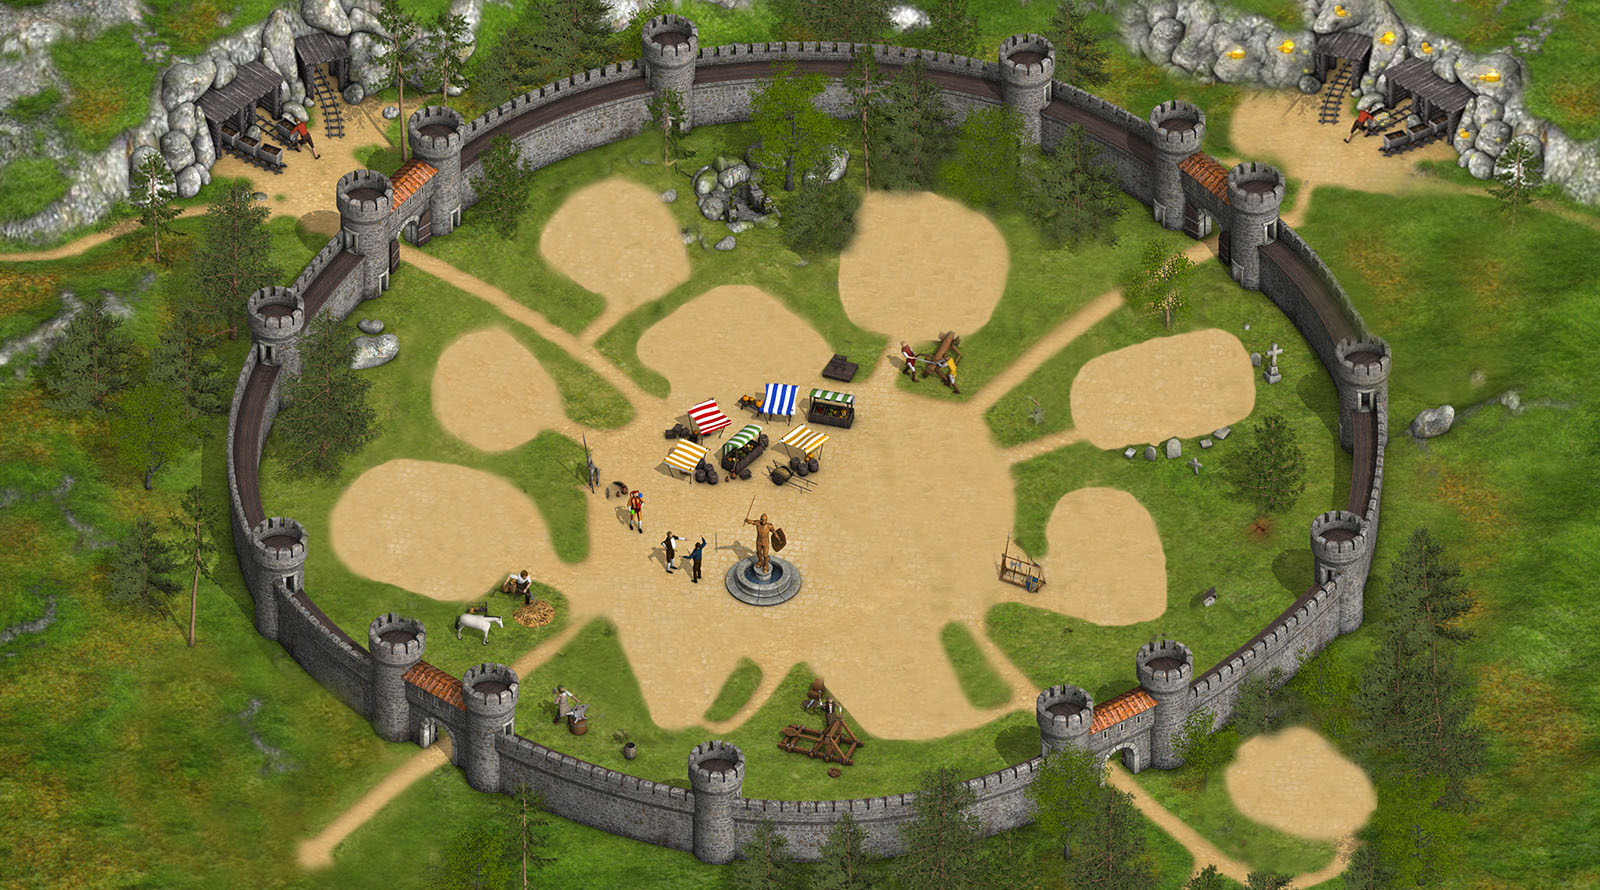
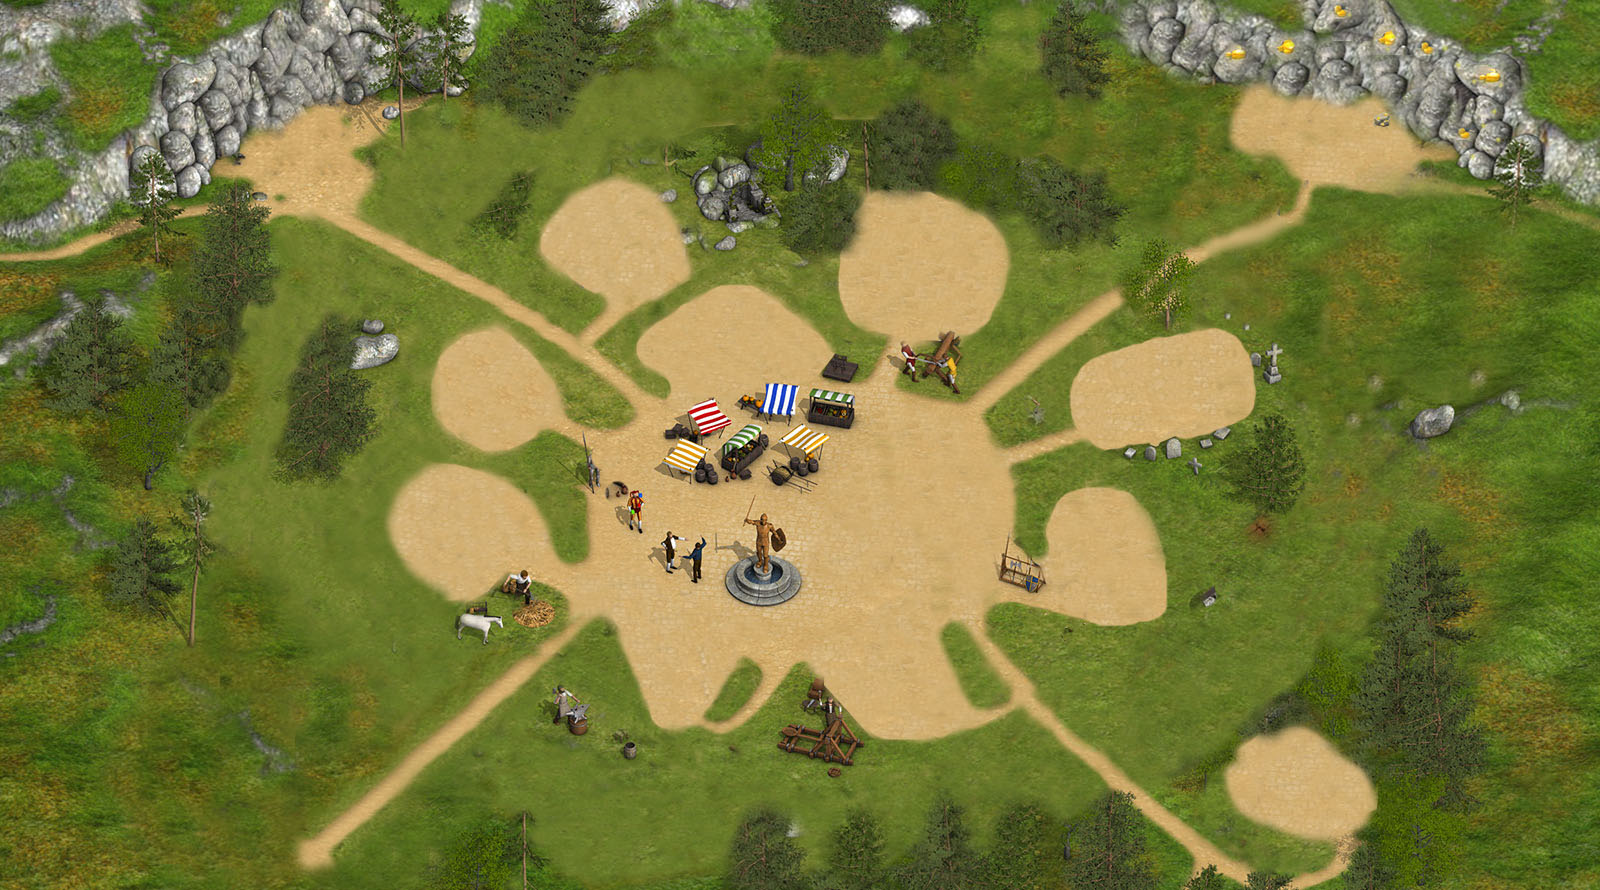
Mapa con las estructuras y muralla

Changed region(s): [[0.0938, 0.0, 0.875, 1.0], [0.7812, 0.0303, 0.9375, 0.182], [0.7188, 0.5764, 0.75, 0.6371]]

diff --git a/resources/styles/pages/game.less b/resources/styles/pages/game.less
@@ -141,5 +141,44 @@ html {
     height: 43%;
   }
 
+  #wall {
+    position: absolute;
+
+    background-image: url('../images/muralla.png');
+    background-repeat: no-repeat;
+    background-size: 100% 100%;
+    top: 0.0%;
+    left: 1.1%;
+    width: 97%;
+    height: 97%;
+
+  }
+
+  #mineStone {
+    position: absolute;
+
+    background-image: url('../images/minaStone.png');
+    background-repeat: no-repeat;
+    background-size: 100% 70%;
+    width: 13%;
+    height: 23%;
+    top: 2.6%;
+    left: 11.1%;
+
+  }
+
+  #mineGold{
+    position: absolute;
+    top: 1.6%;
+    left: 79.1%;
+    background-image: url('../images/minaoro.png');
+    background-repeat: no-repeat;
+    background-size: 100% 70%;
+    width: 14%;
+    height: 29%;
+
+  }
+
+
 
 }

diff --git a/public/styles/main.css b/public/styles/main.css
@@ -6882,3 +6882,33 @@ html body #gcontainer {
   width: 13%;
   height: 43%;
 }
+#game #wall {
+  position: absolute;
+  background-image: url('../images/muralla.png');
+  background-repeat: no-repeat;
+  background-size: 100% 100%;
+  top: 0.0%;
+  left: 1.1%;
+  width: 97%;
+  height: 97%;
+}
+#game #mineStone {
+  position: absolute;
+  background-image: url('../images/minaStone.png');
+  background-repeat: no-repeat;
+  background-size: 100% 70%;
+  width: 13%;
+  height: 23%;
+  top: 2.6%;
+  left: 11.1%;
+}
+#game #mineGold {
+  position: absolute;
+  top: 1.6%;
+  left: 79.1%;
+  background-image: url('../images/minaoro.png');
+  background-repeat: no-repeat;
+  background-size: 100% 70%;
+  width: 14%;
+  height: 29%;
+}

diff --git a/public/partials/pages/game.html b/public/partials/pages/game.html
@@ -1,12 +1,11 @@
 <div id="game" ng-controller="gameCtrl" >
+    <div id="mineGold" ></div>
 
 <!--<img class="background" src="../images/mapa_main1.jpg" />-->
-
+    <div id="wall" ></div>
 <div id="castle" >
     <!--<img src="../images/Castillo1.png" ng-if="game.castle.level >= 1" />-->
-    <!--<img src="../images/Castillo1.png"  />-->
-
-</div>
+    <!--<img src="../images/Castillo1.png"  />--></div>
     <div id="church" ></div>
     <div id="barracks" ></div>
     <div id="forge" ></div>
@@ -16,7 +15,7 @@
     <div id="tower2" ></div>
     <div id="cavalry" ></div>
     <div id="shop" ></div>
-
+    <div id="mineStone" ></div>
 
 
 </div>
